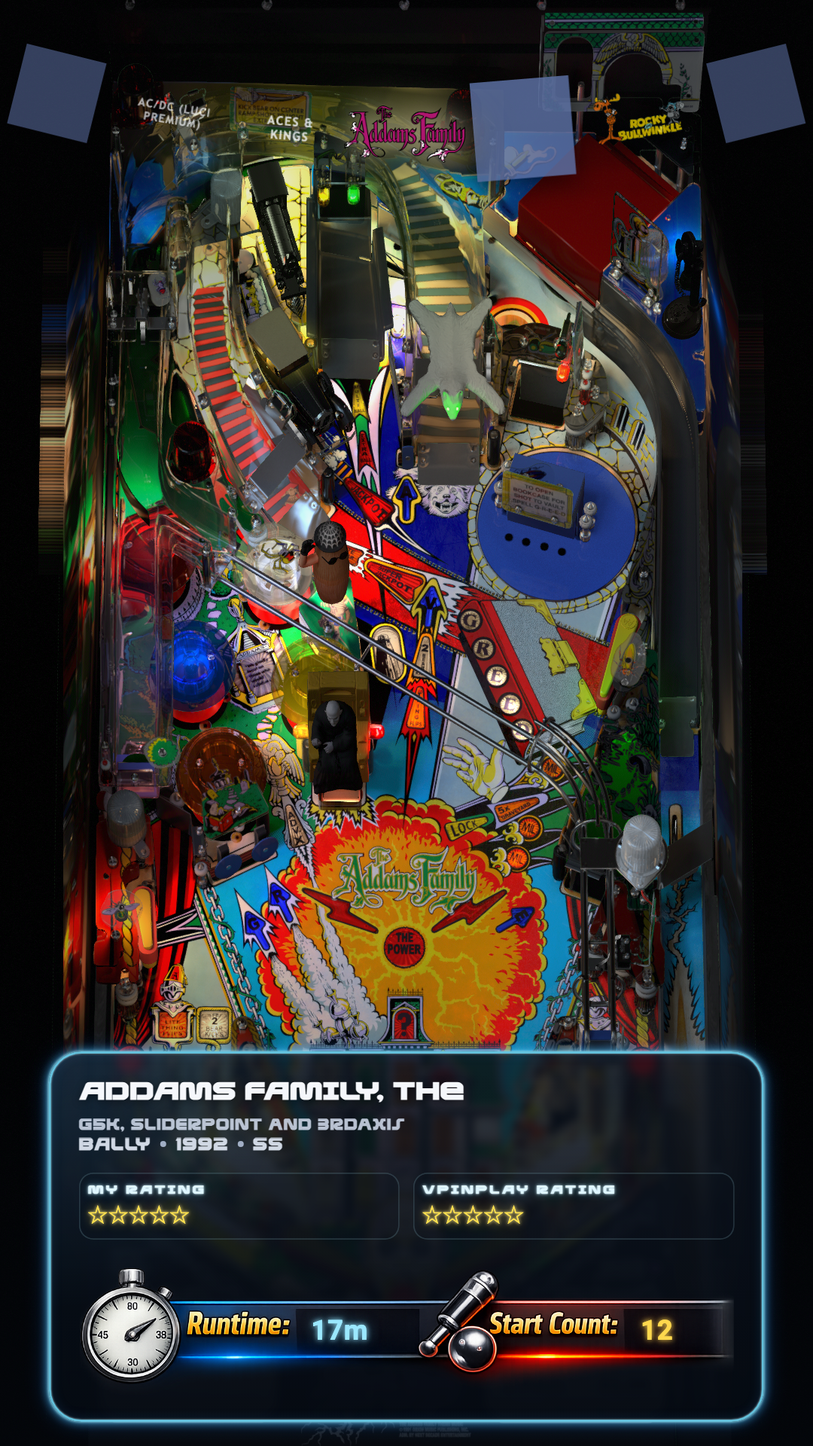
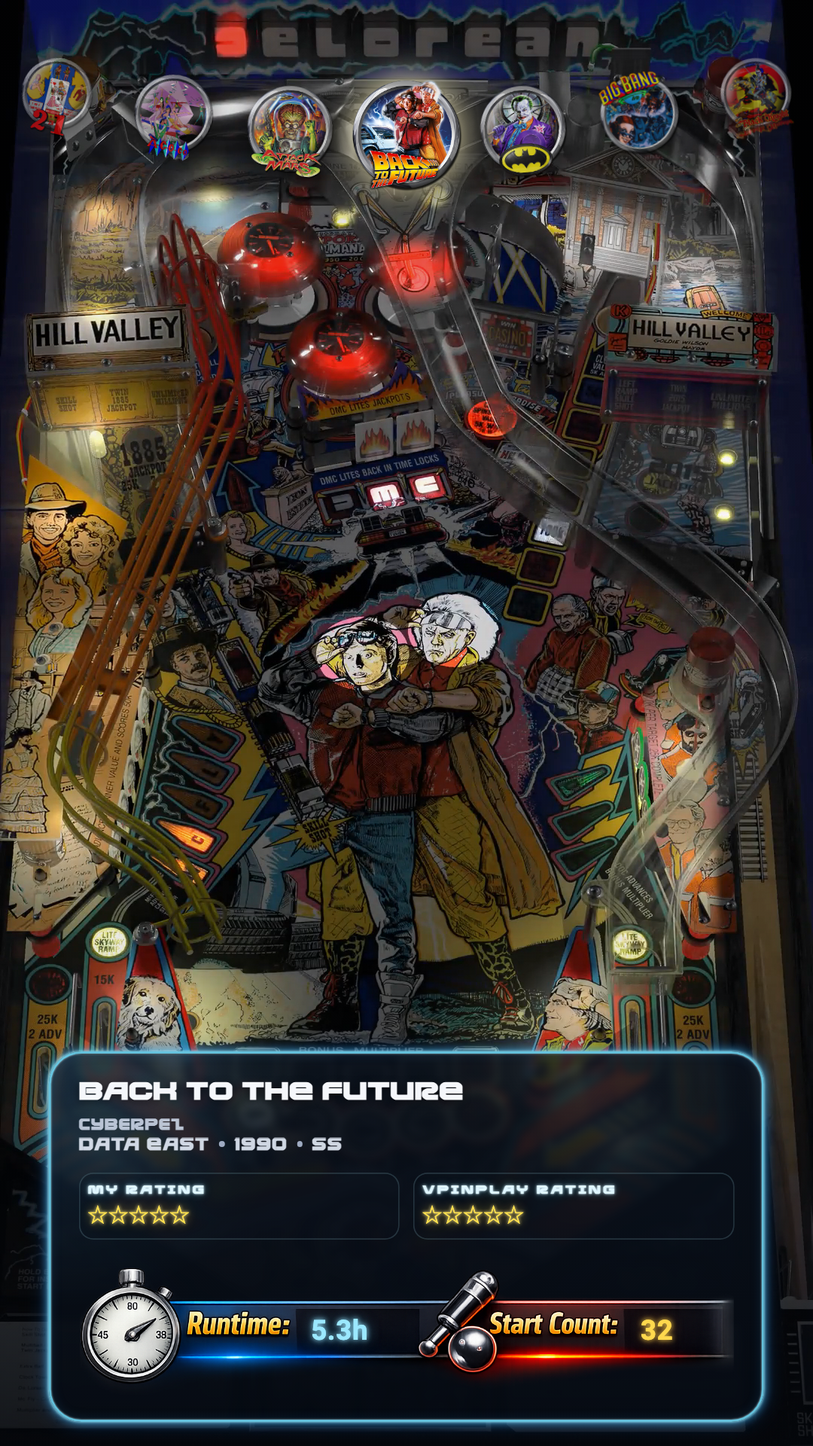
Playfield art follows core's media priority; new README and previews
- theme.js draws the playfield through vpin.getMedia, so Playfield Media Priority applies
- change_log rewritten as the 3.0 release notes
- README rewritten for people installing the theme, with the settings table
- preview.png and preview-desktop.png reshot from the showcase library

diff --git a/theme.js b/theme.js
@@ -308,18 +308,17 @@ function discard(layer) {
 
 const artFader = makeFader(artEl);
 
-// The playfield video when the table has one, else its picture.
+// The playfield video or picture, as the person's Playfield Media Priority says; core falls
+// back to the other when a table has only one, and to its own FSS picture for the playfield.
 function drawArt(entry, index) {
-  const video = entry.media.includes("playfield_video");
-  const still = ["playfield", "playfield_fss"].find((kind) => entry.media.includes(kind));
-  if (!video && !still) {
+  const art = vpin.getMedia(index, "playfield");
+  if (art.kind === "missing") {
     artFader.clear();
     return;
   }
 
-  // getMediaURL could answer with the still; getVideoURL is always the video. getImageURL
-  // has no FSS fallback, so a table with only an FSS picture is asked for it by name.
-  const url = video ? vpin.getVideoURL(index, "playfield") : vpin.getImageURL(index, still);
+  const video = art.kind === "video";
+  const url = art.url;
   artFader.show(url, () => {
     let node;
     if (video) {

diff --git a/README.md b/README.md
@@ -1,104 +1,23 @@
 # Trinidad
 
-A cabinet theme. The playfield picture, or its video, fills the screen. An arc of seven
-wheels runs across the top with the selected one in the middle, larger and lit. A glowing
-panel at the foot names the selected table, its authors, manufacturer, year and type, shows
-the player's rating and VPinPlay's, and the table's runtime and start count. A table with no
-playfield picture leaves the screen black, and a table with no wheel is named in the arc.
+A theme for a cabinet or a desktop.  The playfield video or picture fills the screen.  An arc of seven wheels runs across the top with the selected one in the middle, larger and lit.  A glowing panel at the foot names the table, its authors, manufacturer, year and type, and shows your rating, VPinPlay's rating, and the table's runtime and start count.
 
-![Trinidad](preview.png)
+![Trinidad on a cabinet](preview.png)
 
-Requires VPinFE 3.0 or later (`min_vpinfe` in `manifest.json`). This is the 3.0 rebuild of
-Trinidad, so its version is 2.0.0.
+On a wide desktop screen the panel moves to the bottom right corner.
 
-## What is here
+![Trinidad on a desktop](preview-desktop.png)
 
-```
-manifest.json         name, version, author, min_vpinfe and the windows the theme draws
-options.json          the options a person can change, with their defaults
-index_playfield.html  the playfield page
-style.css             the look
-theme.js              the behavior
-locales/en.json       the theme's own words; add <language>.json to translate them
-fonts/                Rocket Command Expanded and Gradient, and Roboto Bold
-img/                  the runtime and start count dial, and the collection backdrop
-preview.png           shown in the theme list
-```
+The playfield is the table's video or image, whichever Playfield Media Priority in VPinFE's settings asks for.  A table with neither leaves the screen black, and a table with no wheel is named in the arc.
 
-## The two JSON files
+## Install
 
-JSON cannot carry comments, so what each field does is here.
+Open Themes in the Console, find Trinidad, and press Install.  Then press Make Active and restart VPinFE.  It needs VPinFE 3.0 or later.
 
-`manifest.json`
+## Settings
 
-| Field | What it does |
+These are on the Themes page in the Console, under Trinidad's settings.
+
+| Setting | What it does |
 | --- | --- |
-| `name`, `version`, `author`, `description` | Shown in the theme list. `version` is the theme's own release number |
-| `preview_image` | The screenshot shown in the theme list |
-| `type` | `both`: the theme adapts to a desktop screen or a cabinet |
-| `min_vpinfe` | The oldest VPinFE that can run the theme |
-| `windows` | The pages the theme draws. Trinidad draws `playfield` only, so core's backglass and score view pages are used |
-| `change_log` | A string, shown as "What's new" to someone installing or updating the theme |
-
-`options.json` declares what a person can change under the theme's settings. Its `title` and
-`description` head the theme's settings page. Each entry has a `key`, a `name` and
-`description` the person reads, a `type` and a `default`. The theme reads the value from
-`vpin.themeConfig` under the entry's `key`. Trinidad declares one:
-
-| Key | Type | Default | What it does |
-| --- | --- | --- | --- |
-| `startCollectionSelection` | boolean | `false` | Open the collection picker when the theme starts, instead of the table wheel |
-
-## The four parts of theme.js
-
-`theme.js` has four parts, in this order, each commented:
-
-1. **Options** - read what `options.json` declared from `vpin.themeConfig`.
-2. **The wheel** - up to seven pictures on an arc, the selection in the middle. A picture that
-   stays on screen when the wheel moves keeps its element, so it glides to its new place. In
-   the collection picker the wheel holds the collections' pictures.
-3. **The selection** - everything about the selected table is on its entry: the panel's text,
-   the stars, the runtime and the start count, and the art. The art is the playfield video
-   when the table has one, else its playfield picture, else its full single screen picture.
-   A new picture loads behind the old one and fades in over it. In the collection picker the
-   panel holds the collection's name, size and kind, and the art is `img/collection_background.png`.
-4. **Messages** - hand every message to core, then redraw.
-
-## The page
-
-| Element | What it holds |
-| --- | --- |
-| `#art` | The playfield picture or video, or the collection backdrop |
-| `#wheels` | The arc of wheels |
-| `#panel` | The glowing panel |
-| `#title`, `#authors`, `#facts` | The table's name, its authors, and its manufacturer, year and type |
-| `#my-rating`, `#community-rating` | The player's stars, and VPinPlay's |
-| `#runtime`, `#starts` | The two numbers written into the dial picture |
-| `#empty` | "No tables found", shown when the list is empty |
-
-The page's outermost element carries `vpinfe-upright`, so core can turn the whole page for a
-cabinet screen mounted on its side. The stage is styled by class, not by id, so the rules in
-`vpinfe-style.css` that size it for a turned screen still win. Lengths are fractions of the
-stage (`cqw`, `cqh`, `cqmin`), so the page keeps its shape on a tall cabinet screen and a wide
-desktop one. On a wide screen the panel moves to the bottom right corner.
-
-The playfield picture is stretched to fill the stage. Core
-measures it against the screen and turns it a quarter when its shape is the wrong way round.
-
-## What core does, so this theme does not
-
-| Core handles | The theme's part |
-| --- | --- |
-| Keys, buttons and the remote: stepping, paging, the menu and the collection picker | Launch on `select` |
-| Moving the selection and wrapping around the list | Draw the selected table (`activeList().current`) and the wheels around it (`indexAfter`) |
-| Serving the table's media | Ask for the playfield video or picture and the wheel by name, and name the table when it has no wheel |
-| Audio for the selected table | Nothing |
-| Preloading the neighbors | Nothing |
-| Turning the page for a sideways cabinet screen | `vpinfe-upright` on the stage, and `applyPlayfieldMediaRotation` on the art |
-| The loading indicator while a table starts | Restyle `.vpinfe-launch-spinner` |
-| Attract mode | Nothing |
-| The backglass and score view pages | Nothing: Trinidad ships none, so core's are used |
-
-## Opt-outs
-
-Trinidad uses none. There is no `config.json`.
+| Start in Collection Selection | Opens the collection picker as soon as the theme starts.  When it is off, Trinidad starts on the collection set by Open On in VPinFE's settings.  Off by default.  If you set this in VPinFE 2.x, your choice carries over. |
